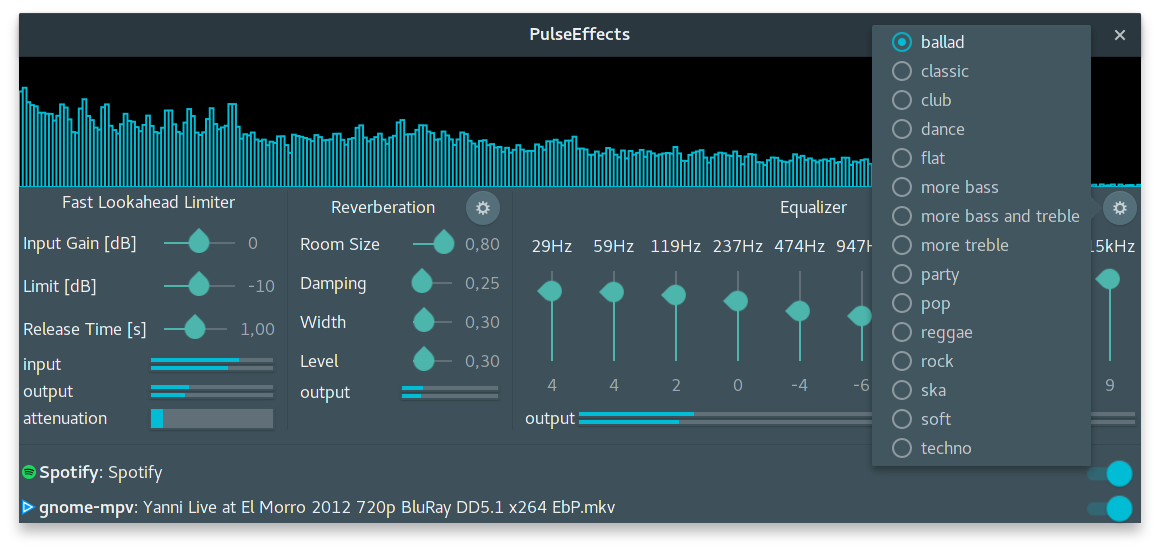
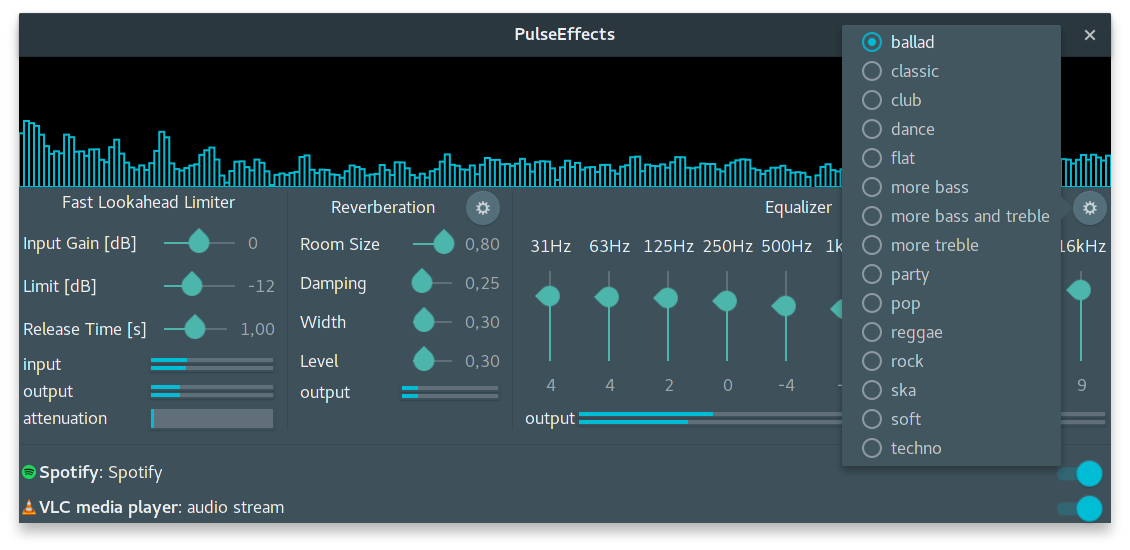
changed pulsesrc slave-method and gave another try to caps equalizer

diff --git a/PulseEffects/gst.py b/PulseEffects/gst.py
@@ -31,7 +31,7 @@ class GstEffects(GObject.GObject):
 
         self.old_limiter_attenuation = 0
         self.rate = None
-        self.max_spectrum_freq = 15000  # Hz
+        self.max_spectrum_freq = 16000  # Hz
         self.spectrum_nbands = 300
         self.spectrum_freqs = []
         self.spectrum_nfreqs = 0
@@ -54,7 +54,7 @@ class GstEffects(GObject.GObject):
 
         self.freeverb = Gst.ElementFactory.make('freeverb', None)
 
-        self.equalizer = Gst.ElementFactory.make('equalizer-10bands', None)
+        self.equalizer = Gst.ElementFactory.make('ladspa-caps-so-eq10x2', None)
 
         self.audio_sink = Gst.ElementFactory.make('pulsesink', None)
 
@@ -72,6 +72,9 @@ class GstEffects(GObject.GObject):
 
         self.audio_src.set_property('client-name', 'PulseEffects')
         self.audio_src.set_property('device', 'PulseEffects.monitor')
+
+        self.audio_src.set_property('provide-clock', False)
+        self.audio_src.set_property('slave-method', 1)
 
         spectrum.set_property('bands', self.spectrum_nbands)
         spectrum.set_property('threshold', self.spectrum_threshold)
@@ -222,11 +225,6 @@ class GstEffects(GObject.GObject):
         self.audio_sink.set_property('buffer-time', value)
         self.set_state('playing')
 
-    def set_src_provide_clock(self, value):
-        self.set_state('ready')
-        self.audio_src.set_property('provide-clock', value)
-        self.set_state('playing')
-
     def set_limiter_input_gain(self, value):
         self.limiter.set_property('input-gain', value)
 
@@ -237,34 +235,34 @@ class GstEffects(GObject.GObject):
         self.limiter.set_property('release-time', value)
 
     def set_eq_band0(self, value):
-        self.equalizer.set_property('band0', value)
+        self.equalizer.set_property('param-31-hz', value)
 
     def set_eq_band1(self, value):
-        self.equalizer.set_property('band1', value)
+        self.equalizer.set_property('param-63-hz', value)
 
     def set_eq_band2(self, value):
-        self.equalizer.set_property('band2', value)
+        self.equalizer.set_property('param-125-hz', value)
 
     def set_eq_band3(self, value):
-        self.equalizer.set_property('band3', value)
+        self.equalizer.set_property('param-250-hz', value)
 
     def set_eq_band4(self, value):
-        self.equalizer.set_property('band4', value)
+        self.equalizer.set_property('param-500-hz', value)
 
     def set_eq_band5(self, value):
-        self.equalizer.set_property('band5', value)
+        self.equalizer.set_property('param-1-khz', value)
 
     def set_eq_band6(self, value):
-        self.equalizer.set_property('band6', value)
+        self.equalizer.set_property('param-2-khz', value)
 
     def set_eq_band7(self, value):
-        self.equalizer.set_property('band7', value)
+        self.equalizer.set_property('param-4-khz', value)
 
     def set_eq_band8(self, value):
-        self.equalizer.set_property('band8', value)
+        self.equalizer.set_property('param-8-khz', value)
 
     def set_eq_band9(self, value):
-        self.equalizer.set_property('band9', value)
+        self.equalizer.set_property('param-16-khz', value)
 
     def set_reverb_room_size(self, value):
         self.freeverb.set_property('room-size', value)

diff --git a/PulseEffects/application.py b/PulseEffects/application.py
@@ -89,9 +89,7 @@ class Application(Gtk.Application):
         }
 
         headerbar_ui_handlers = {
-            'on_buffer_time_value_changed': self.on_buffer_time_value_changed,
-            'on_src_provide_clock_state_set':
-                self.on_src_provide_clock_state_set
+            'on_buffer_time_value_changed': self.on_buffer_time_value_changed
         }
 
         main_ui_builder.connect_signals(main_ui_handlers)
@@ -120,13 +118,6 @@ class Application(Gtk.Application):
         buffer_time = self.settings.get_value('buffer-time').unpack()
 
         buffer_time_obj.set_value(buffer_time)
-
-        # pulsesrc provide-clock
-        src_provide_clock = headerbar_builder.get_object('src_provide_clock')
-
-        provide_clock = self.settings.get_value('src-provide-clock').unpack()
-
-        src_provide_clock.set_state(provide_clock)
 
         # limiter
 
@@ -283,12 +274,6 @@ class Application(Gtk.Application):
         self.settings.set_value('buffer-time', out)
 
         self.gst.set_buffer_time(value * 1000)
-
-    def on_src_provide_clock_state_set(self, obj, state):
-        self.gst.set_src_provide_clock(state)
-
-        out = GLib.Variant('b', state)
-        self.settings.set_value('src-provide-clock', out)
 
     def build_apps_list(self):
         children = self.apps_box.get_children()

diff --git a/setup.py b/setup.py
@@ -1,7 +1,7 @@
 from setuptools import setup, find_packages
 
 setup(name='PulseEffects',
-      version='1.0.6',
+      version='1.0.7',
       description='Audio effects for Pulseaudio applications',
       url='https://github.com/wwmm/PulseEffects',
       author='wwmm',
@@ -10,10 +10,10 @@ setup(name='PulseEffects',
       packages=find_packages(),
       install_requires=[
           'gi',
-          'gst-plugins-good',
           'gst-plugins-bad',
           'gst-python',
-          'swh-plugins'
+          'swh-plugins',
+          'caps'
       ],
       scripts=['pulseeffects'],
       include_package_data=True,
